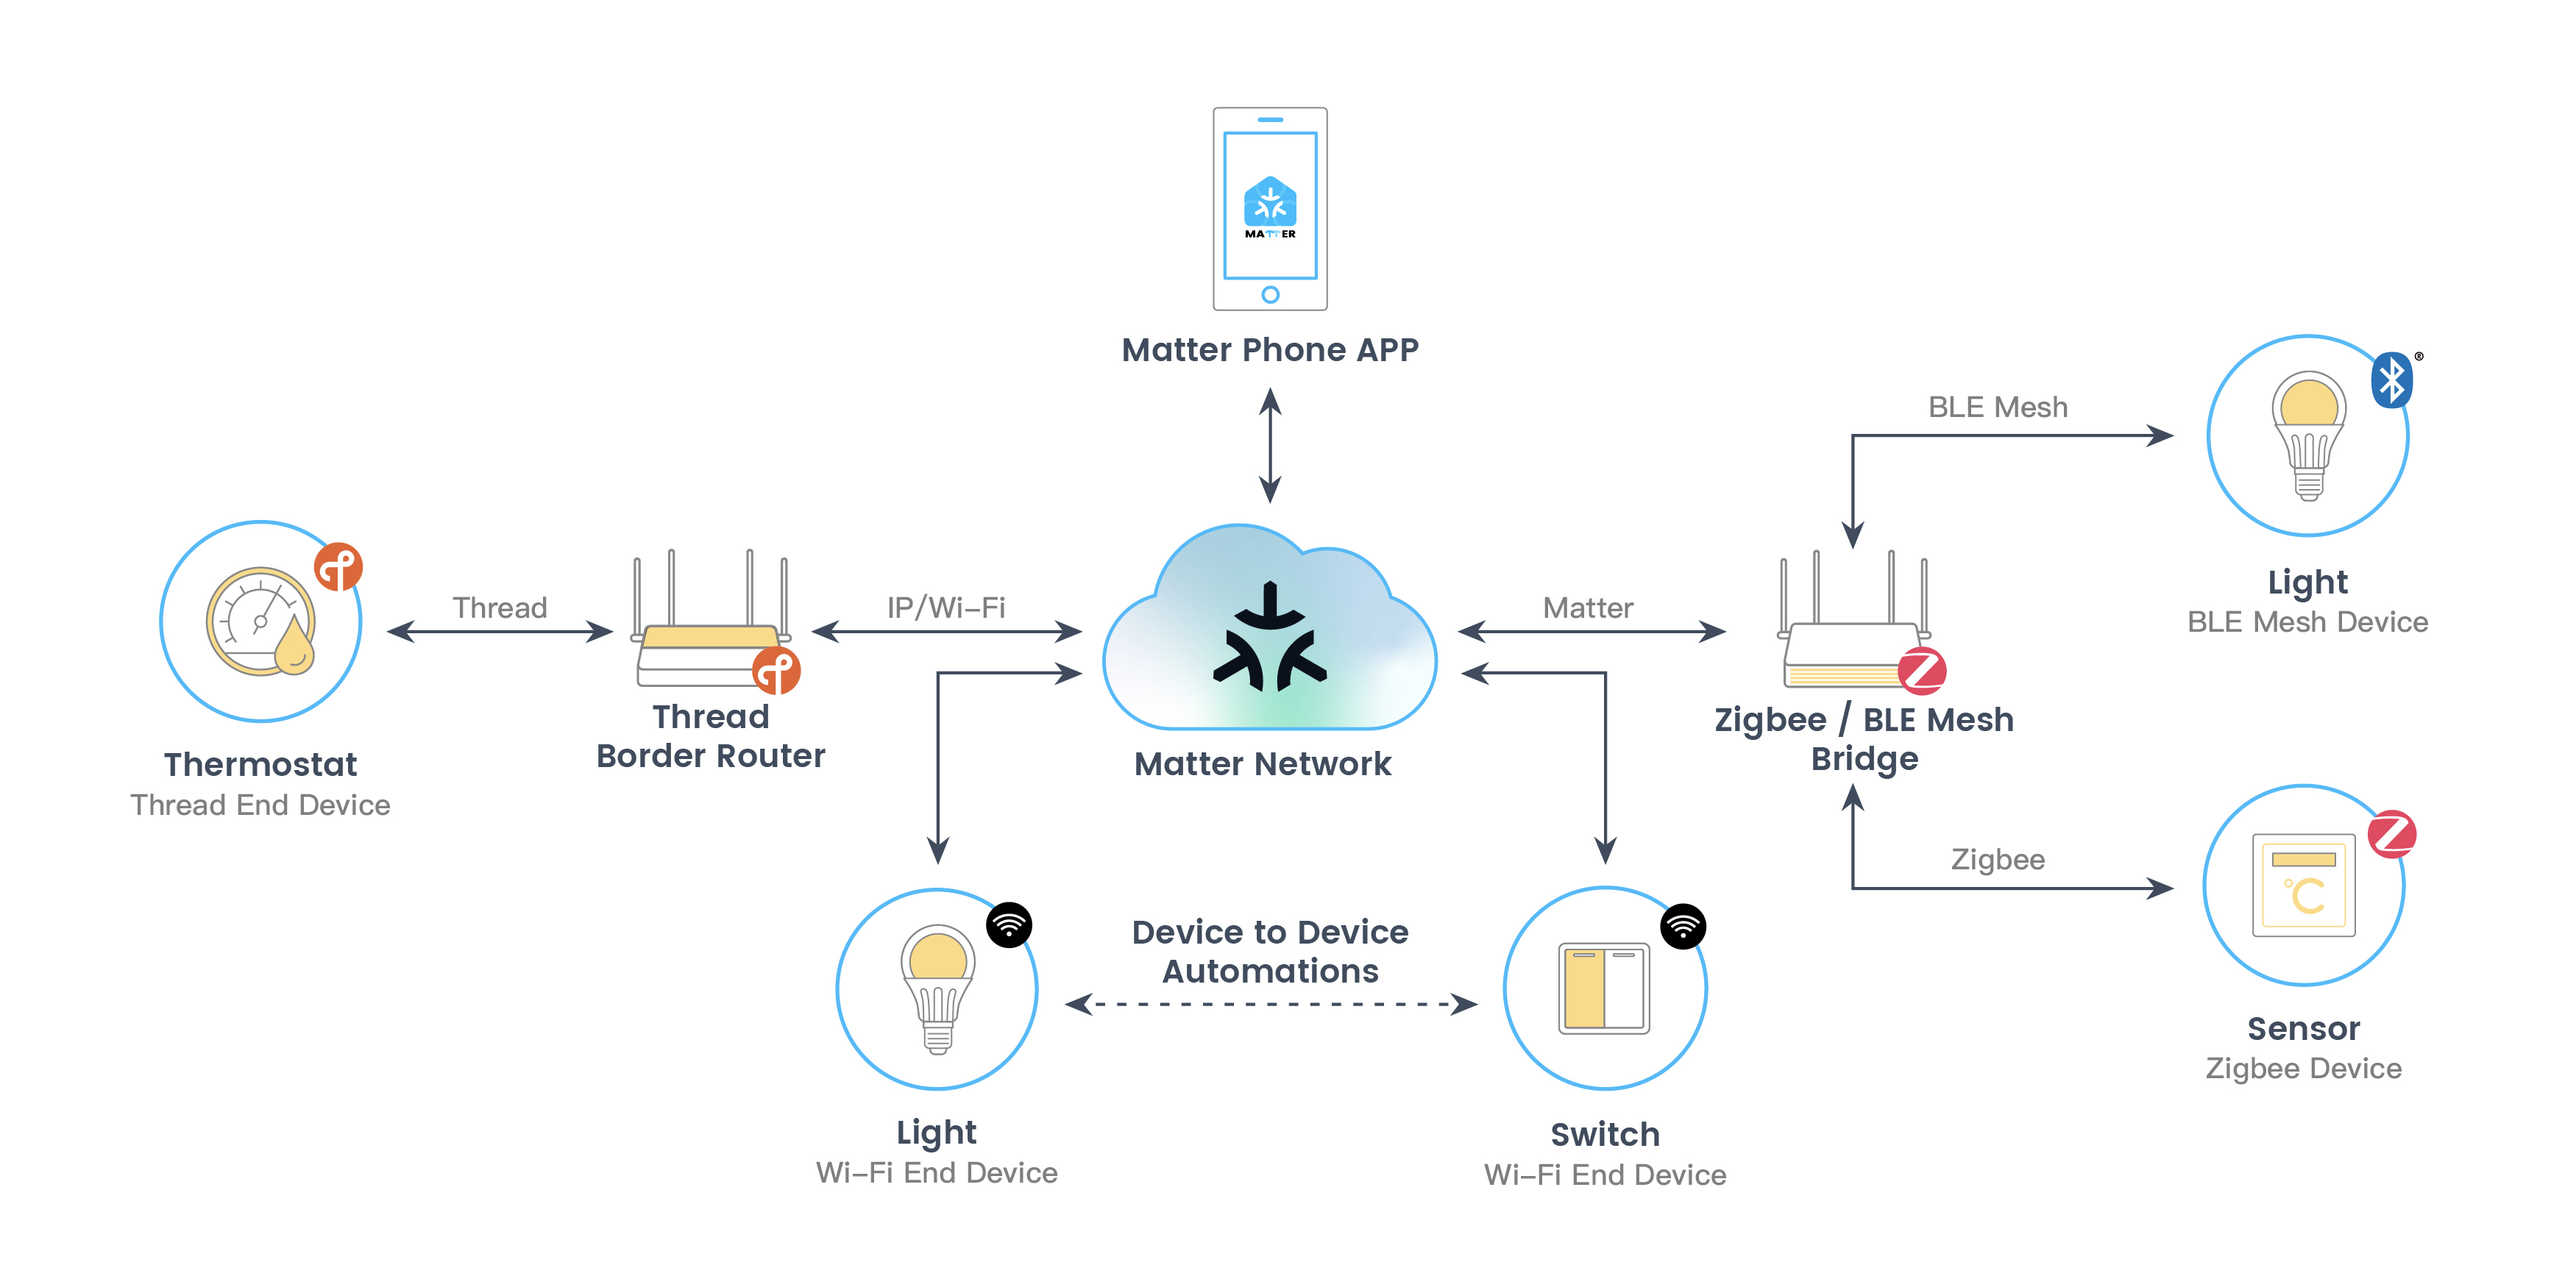
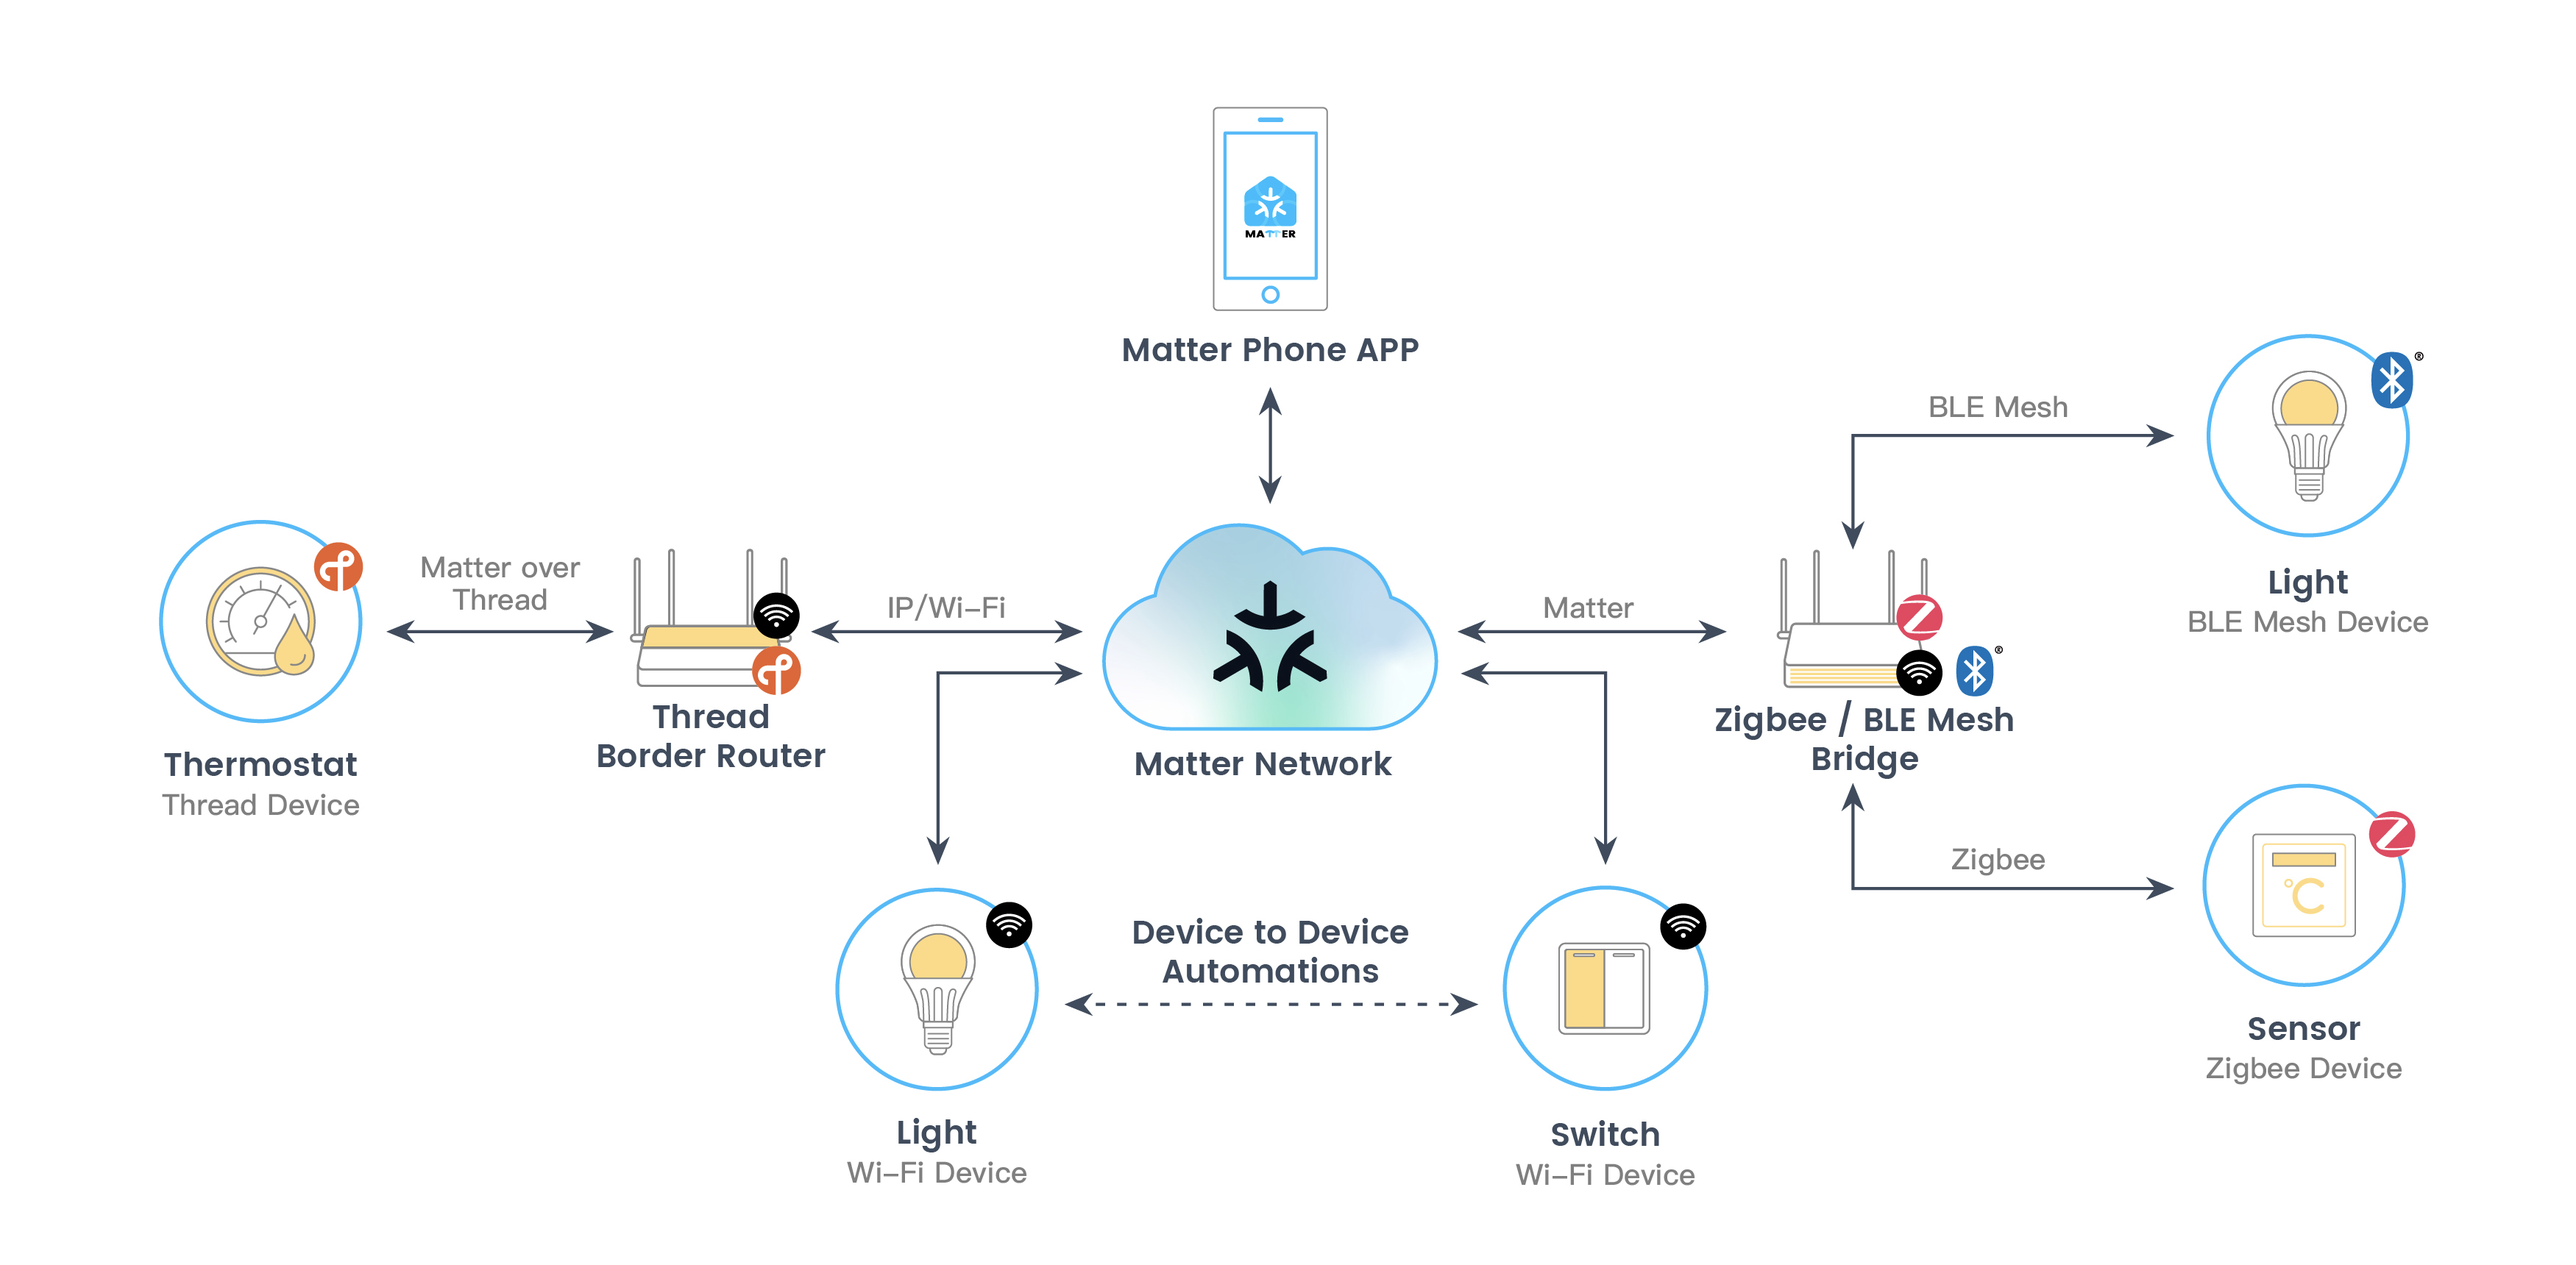
Miscellaneous changes in the documentation - Part I

diff --git a/docs/en/developing.rst b/docs/en/developing.rst
@@ -1,14 +1,14 @@
 2. Developing with ESP Matter
 =============================
 
-Please refer to :project_file:`Changelog <CHANGELOG.md>` to track release changes
-and known-issues.
+Please refer the :project_file:`Changelog <CHANGELOG.md>` to know more about
+ESP Matter releases
 
 2.1 Development Setup
 ---------------------
 
 This section talks about setting up your development host, fetching the
-git repositories, and instructions for build and flash.
+Git repositories, and instructions for build and flash.
 
 2.1.1 Host Setup
 ~~~~~~~~~~~~~~~~
@@ -50,16 +50,14 @@ host. Linux and Mac OS-X are the supported development hosts in Matter.
 2.1.3 Configuring the Environment
 ~~~~~~~~~~~~~~~~~~~~~~~~~~~~~~~~~
 
+This should be done each time a new terminal is opened
 ::
 
    cd esp-idf; . ./export.sh; cd ..
    cd esp-matter; . ./export.sh; cd ..
 
-2.1.4 Additional Environment Setup
-~~~~~~~~~~~~~~~~~~~~~~~~~~~~~~~~~~
-
-The device would need additional configuration depending on the example,
-for it to work. Check the example's "Additional Environment Setup" section for more information.
+2.1.4 Building Applications
+~~~~~~~~~~~~~~~~~~~~~~~~~~~
 
 -  :project_file:`Light <examples/light/README.md>`
 -  :project_file:`Light Switch <examples/light_switch/README.md>`
@@ -102,7 +100,7 @@ Choose IDF target.
       working as expected, you can create a new device and export your
       device path.
    -  The other peripheral components like led_driver, button_driver,
-      etc are selected based on the device selected.
+      etc. are selected based on the device selected.
    -  The configuration of the peripheral components can be found in
       ``$ESP_MATTER_DEVICE_PATH/esp_matter_device.cmake``.
 
@@ -131,35 +129,23 @@ Choose IDF target.
 -  For a Wi-Fi device, a Wi-Fi AP which supports IPv6 is required.
 -  For a Thread device, a Thread Border Router is required.
 
-2.2.1 Test Setup (Python Controller Setup)
+2.2.1 Test Setup (CHIP Tool)
 ~~~~~~~~~~~~~~~~~~~~~~~~~~~~~~~~~~~~~~~~~~
 
-The Python Controller, also referred to as chip-tool can be used as a Matter client to commission and control the device.
+A host-based chip-tool can be used as a Matter client to commission and control the device.
 
-2.2.1.1 Environment setup
-^^^^^^^^^^^^^^^^^^^^^^^^^
-
-The environment setup should already have been done when the *esp-matter/install.sh* script was run in the 'Getting the Repositories' section. If the setup was done without using the script, the below commands can be run to build the chip-tool executable.
-
-::
-
-   cd esp-matter/connectedhomeip/connectedhomeip
-   scripts/examples/gn_build_example.sh examples/chip-tool examples/chip-tool/out/
-   export PATH=$PATH:$ESP_MATTER_PATH/connectedhomeip/connectedhomeip/examples/chip-tool/out/
-   cd ../../
-
-2.2.1.2 Commissioning
+2.2.1.1 Commissioning
 ^^^^^^^^^^^^^^^^^^^^^
 
 Use ``chip-tool`` to pair the device:
 
-Pair a Wi-Fi Device over BLE:
+Commission a Wi-Fi Device over BLE:
 
 ::
 
    chip-tool pairing ble-wifi 0x7283 <ssid> <password> 20202021 3840
 
-Pair a Thread Device over BLE:
+Commission a Thread Device over BLE:
 
 ::
 
@@ -167,11 +153,11 @@ Pair a Thread Device over BLE:
 
 In the above commands:
 
--  ``0x7283`` is the randomly generated ``node_id``
--  ``20202021`` is the ``setup_pin_code``
+-  ``0x7283`` is the randomly chosen ``node_id``
+-  ``20202021`` is the ``setup_passcode``
 -  ``3840`` is the ``discriminator``
 
-2.2.1.3 Post Commissioning Setup
+2.2.1.2 Post Commissioning Setup
 ^^^^^^^^^^^^^^^^^^^^^^^^^^^^^^^^
 
 The device would need additional configuration depending on the example,
@@ -183,7 +169,7 @@ for it to work. Check the example's "Post Commissioning Setup" section for more 
 -  :project_file:`Zap Light <examples/zap_light/README.md>`
 -  :project_file:`ZigBee Bridge <examples/zigbee_bridge/README.md>`
 
-2.2.1.4 Cluster Control
+2.2.1.3 Cluster Control
 ^^^^^^^^^^^^^^^^^^^^^^^
 
 Use the cluster commands to control the attributes.
@@ -212,14 +198,14 @@ Use the cluster commands to control the attributes.
 
    chip-tool colorcontrol move-to-hue 150 0 0 0 0 0x7283 0x1
 
-For more chip-tool usage, check https://github.com/project-chip/connectedhomeip/tree/master/examples/chip-tool
+For more details on chip-tool usage, check https://github.com/project-chip/connectedhomeip/tree/master/examples/chip-tool
 
 2.3 Device console
 ------------------
 
-The console on the device can be used to run commands for testing. It is enabled by default in the firmware. Here are some useful commands:
+The console on the device can be used to run commands for testing. It is configurable through menuconfig and enabled by default in the firmware. Here are some useful commands:
 
--  BLE commands: Set and get the BLE advertisement state:
+-  BLE commands: Start and stop BLE advertisement:
 
    ::
 
@@ -231,7 +217,7 @@ The console on the device can be used to run commands for testing. It is enabled
 
       matter wifi mode [disable|ap|sta]
 
--  Wi-Fi connect:
+-  Wi-Fi connect: Connect to the Access Point
 
    ::
 
@@ -293,13 +279,15 @@ Additional ESP Matter specific commands:
 Understanding the structure before actually modifying and customising
 the device is helpful.
 
-2.4.1 Building a Dimmable Lightbulb
-~~~~~~~~~~~~~~~~~~~~~~~~~~~~~~~~~~~
+2.4.1 Building a Color Temperature Lightbulb
+~~~~~~~~~~~~~~~~~~~~~~~~~~~~~~~~~~~~~~~~~~~~
 
 A device is represented in Matter in terms of its data model. As a first
-step of building your product you will define the data model for your
-device. Matter has a standard set of device types already defined that you can preferably use. Please refer to the `Espressif Matter Blog <https://blog.espressif.com/matter-clusters-attributes-commands-82b8ec1640a0>`__ for clarity on
-the terms like endpoints, clusters, etc. that are used in this section.
+step of building your product, you will define the data model for your
+device. Matter has a standard set of device types already defined that you
+can use. Please refer to the
+`Espressif Matter Blog <https://blog.espressif.com/matter-clusters-attributes-commands-82b8ec1640a0>`__
+for clarity on the terms like endpoints, clusters, etc. that are used in this section.
 
 2.4.1.1 Data Model
 ^^^^^^^^^^^^^^^^^^
@@ -313,7 +301,7 @@ the terms like endpoints, clusters, etc. that are used in this section.
       node::config_t node_config;
       node_t *node = node::create(&node_config, app_attribute_update_cb, NULL);
 
--  We will use the ``color_dimmable_light`` standard device type in this
+-  We will use the ``color_temperature_light`` standard device type in this
    case. All standard device types are available in :project_file:`esp_matter_endpoint.h <components/esp_matter/esp_matter_endpoint.h>` header file.
    Each device type has a set of default configuration that can be
    specific as well.

diff --git a/docs/en/introduction.rst b/docs/en/introduction.rst
@@ -1,16 +1,14 @@
 1. Introduction
 ===============
 
-1.1 One-stop Matter Solution
-----------------------------
+1.1 Espressif Matter Solutions
+------------------------------
 
-Espressif's **One-stop Matter Solution** consists of:
+Espressif's Matter Solutions consist of:
 
-   - A Full Spectrum of Matter Device Platforms
+   - A Full Spectrum of Matter device platforms
    - Production ready ESP Matter SDK
-   - Matter and ESP RainMaker Ecosystem Solution
-
-todo. Add an image similar to the first diagram here: https://rainmaker.espressif.com/ and here: https://github.com/espressif/esp-va-sdk/tree/master#11-solution-architecture?
+   - Matter and ESP RainMaker integration
 
 .. figure:: ../_static/solution_architecture.png
     :align: center
@@ -29,29 +27,28 @@ Espressif provides a full spectrum Matter device platforms:
 
 - The Wi-Fi-enabled SoCs and modules, such as ESP32, ESP32-C and ESP32-S series can be used to build Matter Wi-Fi devices.
 - ESP32-H SoCs and modules integrated with 802.15.4 can be used to build Matter Thread devices.
-- By efficiently combining ESP32-H and Espressif's Wi-Fi SoC, a Thread border router can be built to connect the Thread network with the Wi-Fi network to interconnect devices. Espressif provides hardware devkits, reference design and production-ready SDK, which supports the latest Thread 1.3 feature for Matter, and other features like coexist and OTA.
-- Espressif also provides Matter-ZigBee and Matter-BLE Mesh bridge solutions that enable non-matter devices based on ZigBee, Bluetooth LE Mesh and other protocols to connect to the Matter ecosystem. A Matter-ZigBee Bridge uses ESP32-H and another Wi-Fi SoC, while a Matter-BLE Mesh Bridge can be done on single SoC with both Wi-Fi and Bluetooth LE interfaces.
+- By efficiently combining ESP32-H and Espressif's Wi-Fi SoC, a Thread border router can be built to connect the Thread network with the Wi-Fi network to interconnect devices. Espressif provides hardware devkits, reference design and production-ready SDK, which supports the latest Thread 1.3 feature for Matter, and other features like coexistence and OTA (Over-the-Air) updates.
+- Espressif also provides Matter-Zigbee and Matter-BLE Mesh bridge solutions that enable non-Matter devices based on ZigBee, Bluetooth LE Mesh and other protocols to connect to the Matter ecosystem. A Matter-ZigBee Bridge uses ESP32-H and another Wi-Fi SoC, while a Matter-BLE Mesh Bridge can be done on single SoC with both Wi-Fi and Bluetooth LE interfaces.
 
 1.1.2 ESP Matter SDK
 ~~~~~~~~~~~~~~~~~~~~
 
-Espressif's Matter SDK is built on top of `connectedhomeip <https://github.com/project-chip/connectedhomeip/>`__, and integrates ESP Data Model APIs, Tools, Documentation, etc. It is a production ready Matter SDK with rich examples, which can simplify the development process of Matter products.
+Espressif's Matter SDK is built on top of `connectedhomeip <https://github.com/project-chip/connectedhomeip/>`__, and integrates ESP Data Model APIs, commonly used peripherals, tools and utilities for security, manufacturing and production accompanied by exhaustive documentation. It is a production ready Matter SDK with rich production references, aimed to simplify the development process of Matter products and enable the users to go to production in the shortest possible time.
 
 .. figure:: ../_static/software_components.png
     :align: center
     :alt: ESP Matter Software Components
     :figclass: align-center
 
-In addition, ESP Matter SDK also integrates `ESP RainMaker <https://rainmaker.espressif.com/>`__ and `ESP Insights <https://github.com/espressif/esp-insights>`__ for Cloud services and remote diagnostics.
+In addition, ESP Matter SDK also integrates `ESP RainMaker <https://rainmaker.espressif.com/>`__ and `ESP Insights <https://github.com/espressif/esp-insights>`__ for cloud services and remote diagnostics.
 
-1.1.3 Matter and ESP RainMaker Ecosystem Solution
-~~~~~~~~~~~~~~~~~~~~~~~~~~~~~~~~~~~~~~~~~~~~~~~~~
+1.1.3 Matter and ESP RainMaker Integration
+~~~~~~~~~~~~~~~~~~~~~~~~~~~~~~~~~~~~~~~~~~
 
-Espressif's AIoT cloud platform `ESP RainMaker <https://rainmaker.espressif.com/>`__ can provide remote control for Matter devices and enable the Cloud-based device management of Matter devices' massive data resources.
+Espressif's AIoT cloud platform `ESP RainMaker <https://rainmaker.espressif.com/>`__ can provide remote control and enable cloud-based device management for Matter devices.
 
 By combining the above-mentioned Matter hardware and software solutions with ESP RainMaker, this one-stop Matter ecosystem solution provides:
 
-   -  Interconnection with Amazon, Google and Apple
    -  Full-fledged Cloud deployment through own private account
    -  Privately deployable cloud applications
    -  Ready-made phone apps supporting all common smart-home scenarios and voice-assistant integrations
@@ -60,55 +57,10 @@ Relying on the privatization feature of ESP RainMaker, manufacturers
 can even build their own brand of an IoT ecosystem, and provide more value-added services to end customers
 through their own cloud services.
 
-1.2 Matter Devices
-------------------
-
-1.2.1 Simple Device
-~~~~~~~~~~~~~~~~~~~
-
-These are typically basic/simple devices.
-
-todo. list all supported device types that listed in Matter device library spec.
-
-   -  Light Bulb
-   -  Switch
-   -  Temperature sensor
-
-1.2.2 Multi-Device
-~~~~~~~~~~~~~~~~~~
-
-These are a combination of more than one simple devices.
-
-   -  Fan with Light
-   -  Temperature sensor and Proximity sensor
-
-1.2.3 Bridge
-~~~~~~~~~~~~
-
-These devices facilitate using non-Matter devices in a Matter network.
-
-   -  ZigBee bridge
-   -  BLE mesh bridge
-
-1.2.4 Thread Border Router
-~~~~~~~~~~~~~~~~~~~~~~~~~~
-
-These devices typically connect a Thread network to other IP-based networks, such as Wi-Fi or Ethernet.
-
-   -  https://github.com/espressif/esp-idf/tree/master/examples/openthread/ot_br
-
-1.2.5 Hub
-~~~~~~~~~
-
-These can be used to control other Matter devices.
-
-   -  Touch-screen control panel
-   -  Hub with internet connectivity for remote control
-
-1.3 Try it yourself
+1.2 Try it yourself
 -------------------
 
-1.3.1 ESP Launchpad
+1.2.1 ESP Launchpad
 ~~~~~~~~~~~~~~~~~~~
 
 This allows you to quickly try out Matter on Espressif devices through a web browser.

diff --git a/docs/en/index.rst b/docs/en/index.rst
@@ -1,16 +1,15 @@
 ESP Matter Programming Guide
 ============================
 
-`Matter <https://csa-iot.org/all-solutions/matter/>`__ is the unified IP-based
-connectivity protocol built on proven technologies, helping connect and
-build open, reliable and secure IoT ecosystems. This new technology and
-royalty-free connectivity standard enables communications among a wide
-range of smart devices.
+`Matter <https://csa-iot.org/all-solutions/matter/>`__ is a unified IP-based
+connectivity protocol that is designed to connect and build open, reliable
+and secure IoT ecosystems. This new technology and royalty-free connectivity
+standard enables communications among a wide range of smart devices.
 
 ESP Matter is the official Matter development framework for
 Espressif's ESP32 series SoCs.
 
-Espressif has put together a series of blog posts that look at various aspects of Matter. You can see here: `Espressif Matter Blog <https://blog.espressif.com/matter-38ccf1d60bcd>`__.
+Espressif has put together a series of blog posts that talk about various aspects of Matter. You can see here: `Espressif Matter Blog <https://blog.espressif.com/matter-38ccf1d60bcd>`__.
 
 Table of Contents
 =================
